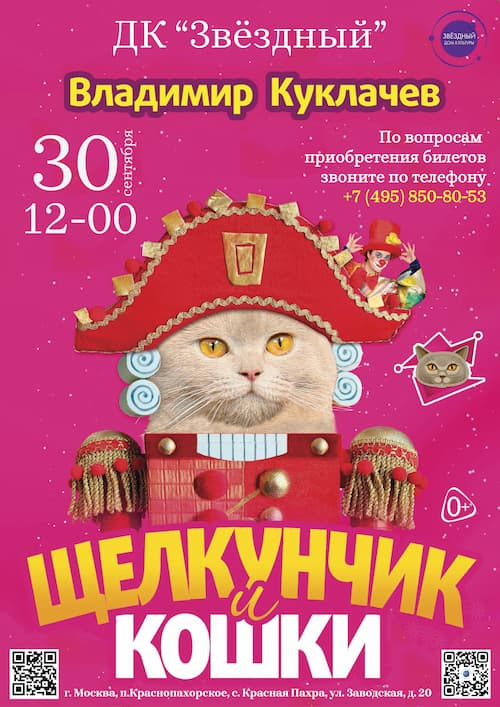
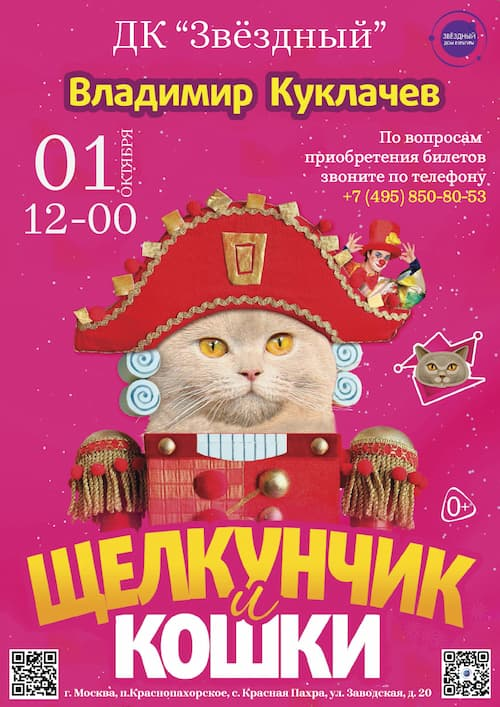
rere

diff --git a/src/configurations/eventsPageConfigurations/eventsListConfig.js b/src/configurations/eventsPageConfigurations/eventsListConfig.js
@@ -1,14 +1,58 @@
 export const eventsConfig = [
     {
         id: 103,
-        eventDay: 'CБ',
-        eventDayNumber: '30',
-        eventInfoDate: '30 сентября',
+        eventDay: 'ВС',
+        eventDayNumber: '01',
+        eventInfoDate: '01 ОКТЯБРЯ',
+        eventInfoTitle: 'Спектакль по произведениям А. Н. Островского',
+        eventDescription: '1 октября в 18 часов в Краснопахорском доме культуры состоится спектакль ведущего творческого коллектива города Москвы  театра-студии "Мыслите"  (реж. Л. Герасимова).  Артисты представят постановку "Купеческая жизнь Замоскворечья", посвящённую 200-летию со дня рождения А. Н. Островского.  Вход свободный!',
+        eventCost: 'ДК "Звездный"',
+        eventImgSrc: require('../../assets/images/eventsImages/ostr-01.jpg'),
+        eventsPreviewImg: require('../../assets/images/eventsImages/eventsPreviewImgs/ostr-02.jpg'),
+    },
+    {
+        id: 103,
+        eventDay: 'ВС',
+        eventDayNumber: '01',
+        eventInfoDate: '01 октября',
         eventInfoTitle: 'Щелкунчик и кошки',
         eventDescription: 'Внимание! Внимание! Внимание!К нам едут кошки куклачева! В ДК "Звездный" 30 сентября в 12-00,ждем всех!! ',
         eventCost: 'ДК "Юбилейный"',
         eventImgSrc: require('../../assets/images/eventsImages/kotik-01.jpg'),
         eventsPreviewImg: require('../../assets/images/eventsImages/eventsPreviewImgs/kotik-02.jpg'),
+    },
+    {
+        id: 103,
+        eventDay: 'ВС',
+        eventDayNumber: '24',
+        eventInfoDate: '24 сентября',
+        eventInfoTitle: 'Чтецкий фестиваль',
+        eventDescription: '7 октября состоится чтецкий фестиваль, посвященный поэтам серебряного века, ждем заявки на участи до 24 сентября',
+        eventCost: 'ДК "Звездный"',
+        eventImgSrc: require('../../assets/images/eventsImages/silver-01.jpg'),
+        eventsPreviewImg: require('../../assets/images/eventsImages/eventsPreviewImgs/silver-02.jpg'),
+    },
+    {
+        id: 103,
+        eventDay: 'СБ',
+        eventDayNumber: '16',
+        eventInfoDate: '16 сентября',
+        eventInfoTitle: 'Открытие мемориально-исторического парка',
+        eventDescription: '16 сентября в деревне Софьино состоится открытие музея в мемориально-историческом парке «Редут 1812» Начало в 10:00. Вход свободный',
+        eventCost: 'ПАРК РЕДУТ 1812 ГОДА',
+        eventImgSrc: require('../../assets/images/eventsImages/redyt-01.jpg'),
+        eventsPreviewImg: require('../../assets/images/eventsImages/eventsPreviewImgs/redyt-02.jpg'),
+    },
+    {
+        id: 103,
+        eventDay: 'ЧТ',
+        eventDayNumber: '14',
+        eventInfoDate: '14 сентября',
+        eventInfoTitle: 'Осенины',
+        eventDescription: '14 сентября в 16 часов стреча в клубе "Горенка". Ирина Юрьевна подготовила для ребят множество творческих заданий.',
+        eventCost: 'ДК "Юбилейный"',
+        eventImgSrc: require('../../assets/images/eventsImages/ovoshi-01.jpg'),
+        eventsPreviewImg: require('../../assets/images/eventsImages/eventsPreviewImgs/ovoshi-02.jpg'),
     },
     {
         id: 103,
@@ -37,7 +81,7 @@ export const eventsConfig = [
         eventDay: 'CБ',
         eventDayNumber: '26',
         eventInfoDate: '26 августа',
-        eventInfoTitle: 'МИгровая программа',
+        eventInfoTitle: 'Игровая программа',
         eventDescription: 'В ДК "Юбилейный" 26 августа в Былово пройдет игровая программа "Первый раз в первый класс"',
         eventCost: 'ДК "Юбилейный"',
         eventImgSrc: require('../../assets/images/eventsImages/1k-01.jpg'),
@@ -108,200 +152,5 @@ export const eventsConfig = [
         eventCost: 'ДК Юбилейный',
         eventImgSrc: require('../../assets/images/eventsImages/flag-01.jpg'),
         eventsPreviewImg: require('../../assets/images/eventsImages/eventsPreviewImgs/flag-02.jpg'),
-    },
-    {
-        id: 103,
-        eventDay: 'ПТ',
-        eventDayNumber: '18',
-        eventInfoDate: '18 августа',
-        eventInfoTitle: 'Евгения Смольянинова',
-        eventDescription: 'В ДК "Звездный" 18 августа в 18-00 приглашает всех на концерт Заслуженой артистки России Евгении Смольяниновой',
-        eventCost: 'ДК "Звездный"',
-        eventImgSrc: require('../../assets/images/eventsImages/Evg-01.jpg'),
-        eventsPreviewImg: require('../../assets/images/eventsImages/eventsPreviewImgs/Evg-02.jpg'),
-    },
-    {
-        id: 103,
-        eventDay: 'ПТ',
-        eventDayNumber: '18',
-        eventInfoDate: '18 августа',
-        eventInfoTitle: 'Василий Моторнов',
-        eventDescription: 'В ДК "Звездный" 18 августа в 15-00 приглашает всех на Выставку работ художника Василия Моторнова',
-        eventCost: 'ДК "Звездный"',
-        eventImgSrc: require('../../assets/images/eventsImages/MB-01.jpg'),
-        eventsPreviewImg: require('../../assets/images/eventsImages/eventsPreviewImgs/MB-02.jpg'),
-    },
-    {
-        id: 103,
-        eventDay: 'ЧТ',
-        eventDayNumber: '03',
-        eventInfoDate: '03 августа',
-        eventInfoTitle: 'КВИЗ "ОТЧЕГО И ПОЧЕМУ?"',
-        eventDescription: 'В ДК "Звездный" 03 августа в 16-00 приглашает всех на увлекательный КВИЗ "ОТЧЕГО И ПОЧЕМУ?"',
-        eventCost: 'ДК "Звездный"',
-        eventImgSrc: require('../../assets/images/eventsImages/Q-01.jpg'),
-        eventsPreviewImg: require('../../assets/images/eventsImages/eventsPreviewImgs/Q-02.jpg'),
-    },
-    {
-        id: 103,
-        eventDay: 'СР',
-        eventDayNumber: '02-09',
-        eventInfoDate: '02-09 августа',
-        eventInfoTitle: 'Выставка детских работ',
-        eventDescription: 'Выставка детских работ "Всемирный день ЗА запрещение ядерного оружия" в ДК "Звездный" продлится с 02 августа по 09 августа',
-        eventCost: 'ДК Звездный',
-        eventImgSrc: require('../../assets/images/eventsImages/or-01.jpg'),
-        eventsPreviewImg: require('../../assets/images/eventsImages/eventsPreviewImgs/or-02.jpg'),
-    },
-    {
-        id: 106,
-        eventDay: '07-18 августа',
-        eventInfoDate: '07-18 августа',
-        eventInfoTitle: 'КУЛЬТЛЕТО',
-        eventDescription: 'КУЛЬТЛЕТО В ДК "ЮБИЛЕЙНОМ" Весна подходит к концу, дети и взрослые с нетерпением ждут начала лета и каникул. Для детей и подростков в Краснопахорском доме культуры подготовили творческие интенсивы. Предлагаем вам ознакомиться с программой летних творческих занятий, запланированных в ДК "Звёздный" и его структурном подразделении в селе Былово - ДК "Юбилейный".Справки по телефонам: +7 926 499-30-32, +7 916 359-64-90',
-        eventCost: 'ДК Юбилейный',
-        eventImgSrc: require('../../assets/images/eventsImages/kultleto-1.jpg'),
-        eventsPreviewImg: require('../../assets/images/eventsImages/eventsPreviewImgs/kultleto-2.jpg'),
-    },
-    {
-        id: 105,
-        eventDay: '07-18 августа',
-        eventInfoDate: '07-18 августа',
-        eventInfoTitle: 'КУЛЬТЛЕТО',
-        eventDescription: 'КУЛЬТЛЕТО В ДК "ЗВЁЗДНЫЙ" Весна подходит к концу, дети и взрослые с нетерпением ждут начала лета и каникул. Для детей и подростков в Краснопахорском доме культуры подготовили творческие интенсивы. Предлагаем вам ознакомиться с программой летних творческих занятий, запланированных в ДК "Звёздный" и его структурном подразделении в селе Былово - ДК "Юбилейный".Справки по телефонам: +7 926 499-30-32, +7 916 359-64-90',
-        eventCost: 'ДК Звездный',
-        eventImgSrc: require('../../assets/images/eventsImages/kultletoZ-01.jpg'),
-        eventsPreviewImg: require('../../assets/images/eventsImages/eventsPreviewImgs/kultletoZ-02.jpg'),
-    },
-    {
-        id: 103,
-        eventDay: 'ЧТ',
-        eventDayNumber: '20',
-        eventInfoDate: '20 июля',
-        eventInfoTitle: 'Всемирный день шахмат',
-        eventDescription: 'Детская игровая программа "Всемирный день шахмат" в ДК "Юбилейный" 20 июля в 12-00',
-        eventCost: 'ДК Звездный',
-        eventImgSrc: require('../../assets/images/eventsImages/SH-01.jpg'),
-        eventsPreviewImg: require('../../assets/images/eventsImages/eventsPreviewImgs/SH-02.jpg'),
-    },
-    {
-        id: 103,
-        eventDay: 'СР',
-        eventDayNumber: '19',
-        eventInfoDate: '19 июля',
-        eventInfoTitle: 'КВИЗ "Ягода лесная"',
-        eventDescription: 'В ДК "Юбилейный" 19 июля в 12-00 приглашает всех на увлекательный КВИЗ "Ягода лесная""',
-        eventCost: 'ДК Юбилейный',
-        eventImgSrc: require('../../assets/images/eventsImages/W-01.jpg'),
-        eventsPreviewImg: require('../../assets/images/eventsImages/eventsPreviewImgs/W-02.jpg'),
-    },
-    {
-        id: 103,
-        eventDay: 'ВТ',
-        eventDayNumber: '18',
-        eventInfoDate: '18 июля',
-        eventInfoTitle: 'Давай дружить',
-        eventDescription: 'Игровая программа "Давай дружить" в ДК "Звездный" 18 июля в 16-00',
-        eventCost: 'ДК Звездный',
-        eventImgSrc: require('../../assets/images/eventsImages/F-01.jpg'),
-        eventsPreviewImg: require('../../assets/images/eventsImages/eventsPreviewImgs/F-02.jpg'),
-    },
-    {
-        id: 103,
-        eventDay: 'СБ',
-        eventDayNumber: '10',
-        eventInfoDate: '10 июля',
-        eventInfoTitle: 'Детская викторина в клубе "Лира"',
-        eventDescription: 'Детская викторина в клубе "Лира" в ДК "Звездный" 10 июля в 12-00',
-        eventCost: 'ДК Звездный',
-        eventImgSrc: require('../../assets/images/eventsImages/lira-01.jpg'),
-        eventsPreviewImg: require('../../assets/images/eventsImages/eventsPreviewImgs/lira-02.jpg'),
-    },
-    {
-        id: 103,
-        eventDay: 'ПН',
-        eventDayNumber: '10',
-        eventInfoDate: '10 июля',
-        eventInfoTitle: 'Фотовыставка',
-        eventDescription: 'Фотовыставка Инны Чистовой ко Дню фотографии состотся в ДК "Звездный"с 10 по 16 июля',
-        eventCost: 'ДК Звездный',
-        eventImgSrc: require('../../assets/images/eventsImages/Fot-01.jpg'),
-        eventsPreviewImg: require('../../assets/images/eventsImages/eventsPreviewImgs/Fot-02.jpg'),
-    },
-    {
-        id: 103,
-        eventDay: 'СБ',
-        eventDayNumber: '08',
-        eventInfoDate: '08 июля',
-        eventInfoTitle: 'Мастер-класс',
-        eventDescription: 'В ДК "Юбилейный" 08 июля в 12-00 приглашает всех на мастер-класс "Со вьюном я хожу"',
-        eventCost: 'ДК Юбилейный',
-        eventImgSrc: require('../../assets/images/eventsImages/V-01.jpg'),
-        eventsPreviewImg: require('../../assets/images/eventsImages/eventsPreviewImgs/V-02.jpg'),
-    },
-    {
-        id: 103,
-        eventDay: 'CБ',
-        eventDayNumber: '08',
-        eventInfoDate: '08 июля',
-        eventInfoTitle: 'Онлайн фестиваль',
-        eventDescription: 'Онлайн фестиваль "Все начинается с любви" ко дню семьи,любви и верности, заявки на участие принимаем до 02 июля',
-        eventCost: 'ДК Звездный',
-        eventImgSrc: require('../../assets/images/eventsImages/7ia-01.jpg'),
-        eventsPreviewImg: require('../../assets/images/eventsImages/eventsPreviewImgs/7ia-02.jpg'),
-    },
-    {
-        id: 103,
-        eventDay: 'ПТ',
-        eventDayNumber: '07',
-        eventInfoDate: '07 июля',
-        eventInfoTitle: 'Все начинается с любви',
-        eventDescription: 'В ДК "Юбилейный" 07 июля в 18-00 приглашает всех на Праздничный концерт ко Дню семьи, любви и верности',
-        eventCost: 'ДК Юбилейный',
-        eventImgSrc: require('../../assets/images/eventsImages/fam-01.jpg'),
-        eventsPreviewImg: require('../../assets/images/eventsImages/eventsPreviewImgs/fam-02.jpg'),
-    },
-    {
-        id: 103,
-        eventDay: 'ЧТ',
-        eventDayNumber: '06',
-        eventInfoDate: '06 июля',
-        eventInfoTitle: 'Мы за здоровый образ жизни',
-        eventDescription: 'В ДК "Юбилейный" 06 июля в 12-00 приглашает всех на игровую программу "Мы за здоровый образ жизни"',
-        eventCost: 'ДК Юбилейный',
-        eventImgSrc: require('../../assets/images/eventsImages/zoq-01.jpg'),
-        eventsPreviewImg: require('../../assets/images/eventsImages/eventsPreviewImgs/zoq-02.jpg'),
-    },
-    {
-        id: 103,
-        eventDay: 'ВС',
-        eventDayNumber: '02',
-        eventInfoDate: '02 июля',
-        eventInfoTitle: 'Новая Москва-дружная семья',
-        eventDescription: 'В ДК "Юбилейный" 02 июля в 12-00 пройдет игровая программа и мастер-класс в честь 11 лет ТиНАО города Москвы',
-        eventCost: 'ДК Юбилейный',
-        eventImgSrc: require('../../assets/images/eventsImages/7-01.jpg'),
-        eventsPreviewImg: require('../../assets/images/eventsImages/eventsPreviewImgs/7-02.jpg'),
-    },
-    {
-        id: 103,
-        eventDay: 'CБ',
-        eventDayNumber: '01',
-        eventInfoDate: '01 июля',
-        eventInfoTitle: 'Спектакль "Прощай, овраг"',
-        eventDescription: 'Ведущий творческий коллектив города Москвы театр-студия "Маска" (рук. Л. Герасимова) представляет: 01 июля в 17 часов состоится спектакль "Прощай, овраг". Вход свободный.',
-        eventCost: 'ДК Звездный',
-        eventImgSrc: require('../../assets/images/eventsImages/ovrag-01.jpg'),
-        eventsPreviewImg: require('../../assets/images/eventsImages/eventsPreviewImgs/ovrag-02.jpg'),
-    },
-    {
-        id: 106,
-        eventDay: '13-22 июня',
-        eventInfoDate: '13-22 июня',
-        eventInfoTitle: 'КУЛЬТЛЕТО',
-        eventDescription: 'КУЛЬТЛЕТО В ДК "ЮБИЛЕЙНОМ" Весна подходит к концу, дети и взрослые с нетерпением ждут начала лета и каникул. Для детей и подростков в Краснопахорском доме культуры подготовили творческие интенсивы. Предлагаем вам ознакомиться с программой летних творческих занятий, запланированных в ДК "Звёздный" и его структурном подразделении в селе Былово - ДК "Юбилейный".Справки по телефонам: +7 926 499-30-32, +7 916 359-64-90',
-        eventCost: 'ДК Юбилейный',
-        eventImgSrc: require('../../assets/images/eventsImages/kultleto-b-01.jpg'),
-        eventsPreviewImg: require('../../assets/images/eventsImages/eventsPreviewImgs/kultleto-b-02.jpg'),
     },
 ]

diff --git a/src/configurations/clubsPageConfigurations/clubsListsConfig.js b/src/configurations/clubsPageConfigurations/clubsListsConfig.js
@@ -524,7 +524,7 @@ export const theatreClubs = [
     {
         id: 2,
         club: '',
-        group:'Театральный коллектив «М» ',
+        group:'Театральный коллектив «Мыслите» ',
         age: 'для детей и взрослых от 12 до 20 лет',
         info: 'Театр — это инструмент, который развивает художественный вкус и чувство прекрасного, навыки презентации и лидерские качества, умение работать в команде и эмоциональный интеллект, помогает человеку лучше понять себя и научиться управлять своими эмоциями и телом. Занятия актерским мастерством помогут избавиться от стеснительности, раскрепоститься, научат владеть своим голосом, выступать перед публикой, находить общий язык с окружающими. Все эти навыки помогут детям в школе и взрослой жизни. Даже если ваш ребенок не планирует стать актером — благодаря занятиям он станет разносторонне развитым человеком!',
         manage: 'Герасимова Людмила Александровна',

diff --git a/src/App.js b/src/App.js
@@ -112,7 +112,7 @@ function App() {
               />
             </Route>
 
-            <Route path="/events/"><Events month="Август - Сентябрь"/></Route>
+            <Route path="/events/"><Events month="сентябрь-октябрь"/></Route>
             <Route path="/clubs/" exact component={Clubs}/>
 
             <Route path="/clubs/early-development/"><ClubsList clubsList={earlyDevelopmentClubs} title={"Раннее развитие"} abbreviated={"Раннее развитие"}/></Route>

diff --git a/src/configurations/festivalsPageConfigurations/festivalsConfig.js b/src/configurations/festivalsPageConfigurations/festivalsConfig.js
@@ -107,7 +107,7 @@ export const festivalsConfig = [
     place: 'ДК Звёздный',
     date: 'Октябрь',
     age: '5 +',
-    href: require('../../assets/docs/festivals/Серебряная-осень-2021.docx')
+    href: require('../../assets/docs/festivals/Серебряная осень 2023.docx')
   },
   {
     id: 11,
